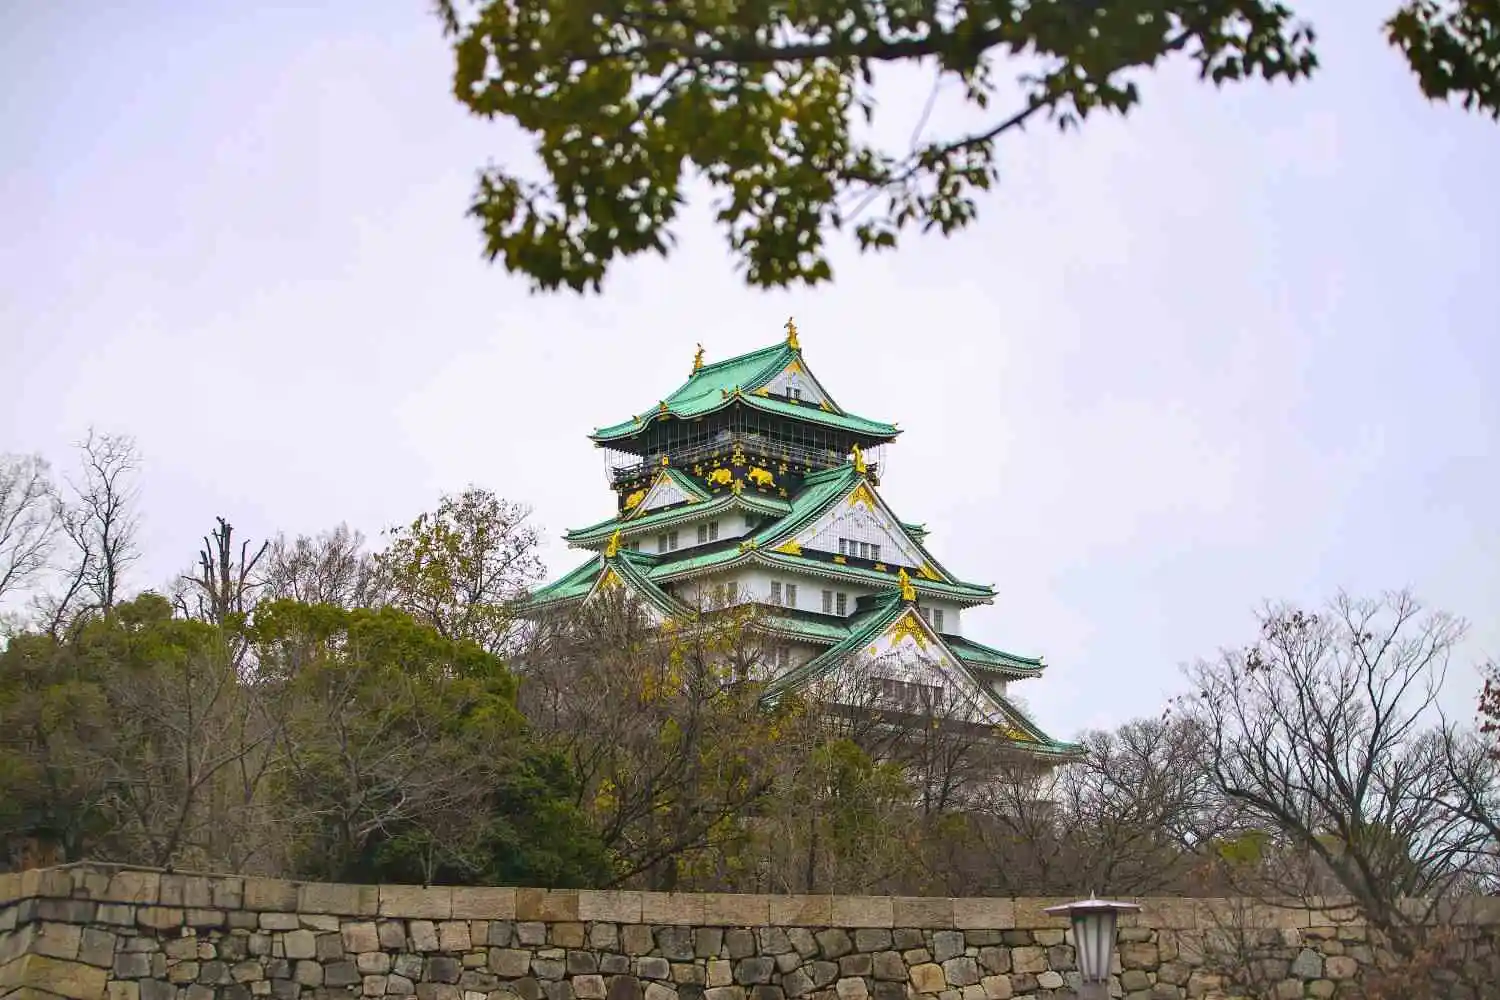
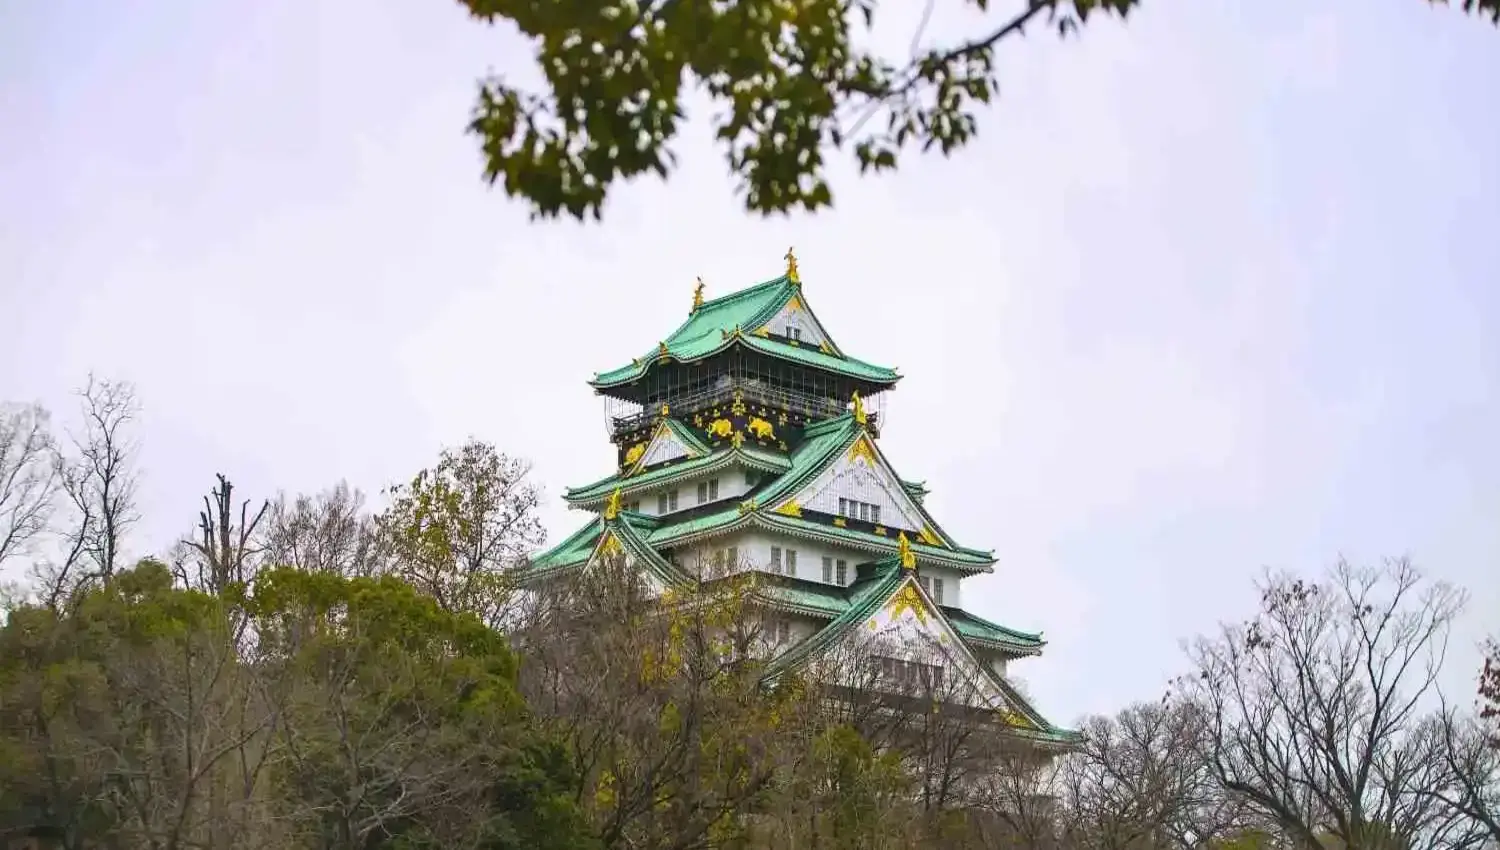
Week 3 - Views applied

diff --git a/styles/weather.css b/styles/weather.css
@@ -1,5 +1,6 @@
 :root {
     --red: rgb(240, 92, 92);
+    --light-red: rgb(255, 226, 226);
 }
 
 html,
@@ -8,9 +9,17 @@ body {
     font-style: normal;
 }
 
+header {
+    text-align: center;
+}
+
 .hero img {
     width: 100%;
     height: auto;
+}
+
+picture {
+    background-color: var(--red);
 }
 
 section>img {
@@ -18,15 +27,21 @@ section>img {
 }
 
 aside {
-    height: .5rem;
+    height: 1rem;
     background-color: var(--red);
 }
 
+.border-t {
+    border-top: .2rem var(--light-red) solid;
+}
+
 .container {
+    background-color: var(--light-red);
     display: flex;
     flex-direction: column;
     align-items: center;
     padding: 2rem 0;
+    margin: 0.5rem;
 }
 
 td:nth-child(1) {
@@ -40,17 +55,60 @@ td:nth-child(2) {
 }
 
 footer {
-    border-top: .5rem solid var(--red);
+    border-top: 1rem solid var(--red);
 }
 
-/* For mobile screens (max-width: 600px) */
-@media (max-width: 600px) {
 
-    .border-t {
-        border-top: 2px rgba(241, 228, 228, 0.452) solid;
+@media (min-width:750px) {
+    main {
+        position: relative;
     }
 
+    h2 {
+        font-size: x-large;
+    }
+
+    .data {
+        position: absolute;
+        top: 2rem;
+        left: 1rem;
+        padding: 1rem;
+        font-size: smaller;
+    }
+
+    .weather {
+        position: absolute;
+        bottom: 2rem;
+        right: 1.5rem;
+        padding: 1rem;
+        font-size: smaller;
+    }
+
+    /* .container-title {
+        background-color: var(--red);
+        display: flex;
+        align-items: center;
+        position: absolute;
+        left: -1rem;
+        padding: .5rem;
+    } */
+
+    .container-title>img {
+        display: none;
+    }
+
+    .weather h2::after {
+        content: '⛅';
+        position: absolute;
+    }
+
+    header {
+        font-size: x-large;
+    }
 }
 
-/* For large screens (min-width: 1024px) */
-@media (min-width: 1024px) {}
+@media (min-width:700px) {
+    .border-t {
+        border: none;
+    }
+}

diff --git a/place.html b/place.html
@@ -24,12 +24,14 @@
         <aside></aside>
         <div class="hero">
             <picture>
-                <source media="(min-width: 750px)" srcset="images/osaka-castle-lg.webp"> <!-- large -->
+                <source media="(min-width: 750px)" srcset="images/osaka-castle-large.webp"> <!-- large -->
                 <img src="images/osaka-castle-small.webp" alt="Osaka Castle" width="500" height="250"> <!-- small -->
             </picture>
         </div>
         <section class="container data">
-            <h2>Data</h2>
+            <div class="container-title">
+                <h2>Data</h2>
+            </div>
             <table>
                 <tr>
                     <td class="label">Area:</td>
@@ -66,12 +68,14 @@
             </table>
         </section>
         <section class="container weather border-t">
-            <h2>Weather</h2>
-            <img src="/images/weather-sun-cloud.svg" alt="weather-sun-cloud">
+            <div class="container-title">
+                <h2>Weather</h2>
+                <img src="/images/weather-sun-cloud.svg" alt="weather-sun-cloud">
+            </div>
             <table>
                 <tr>
                     <td class="label">Temperature:</td>
-                    <td>10 C</td>
+                    <td>23 °C</td>
                 </tr>
                 <tr>
                     <td class="label">Conditions:</td>
@@ -79,11 +83,11 @@
                 </tr>
                 <tr>
                     <td class="label">Winds:</td>
-                    <td>5 km/h</td>
+                    <td>6 km/h</td>
                 </tr>
                 <tr>
                     <td class="label">Windchill:</td>
-                    <td>9.8 C</td>
+                    <td><span id="windchill"></span></td>
                 </tr>
             </table>
         </section>

diff --git a/scripts/windchill.js b/scripts/windchill.js
@@ -1,0 +1,15 @@
+const windchill = document.querySelector('#windchill');
+
+function calculateWindChill(temperature, windSpeed, unit) {
+    // Check conditions for wind chill calculation
+    if ((unit === 'metric' && temperature <= 10 && windSpeed > 4.8) ||
+        (unit === 'imperial' && temperature <= 50 && windSpeed > 3)) {
+        return unit === 'metric'
+            ? (13.12 + (0.6215 * temperature) - (11.37 * Math.pow(windSpeed, 0.16)) + (0.3965 * temperature * Math.pow(windSpeed, 0.16))).toFixed(2) + " °C"
+            : (35.74 + (0.6215 * temperature) - (35.75 * Math.pow(windSpeed, 0.16)) + (0.4275 * temperature * Math.pow(windSpeed, 0.16))).toFixed(2) + " °F";
+    } else {
+        return "N/A";
+    }
+}
+
+windchill.innerHTML = `<span>${calculateWindChill(23, 6, 'metric')}<span>`;

diff --git a/styles/base-layout.css b/styles/base-layout.css
@@ -20,7 +20,6 @@ header {
 }
 
 header>h1 {
-    display: flex;
     padding: 1rem;
 }
 
@@ -32,7 +31,6 @@ main {
 
 /* footer */
 footer {
-    color: var(--red);
     padding: 2rem;
     text-align: center;
     font-size: small;
